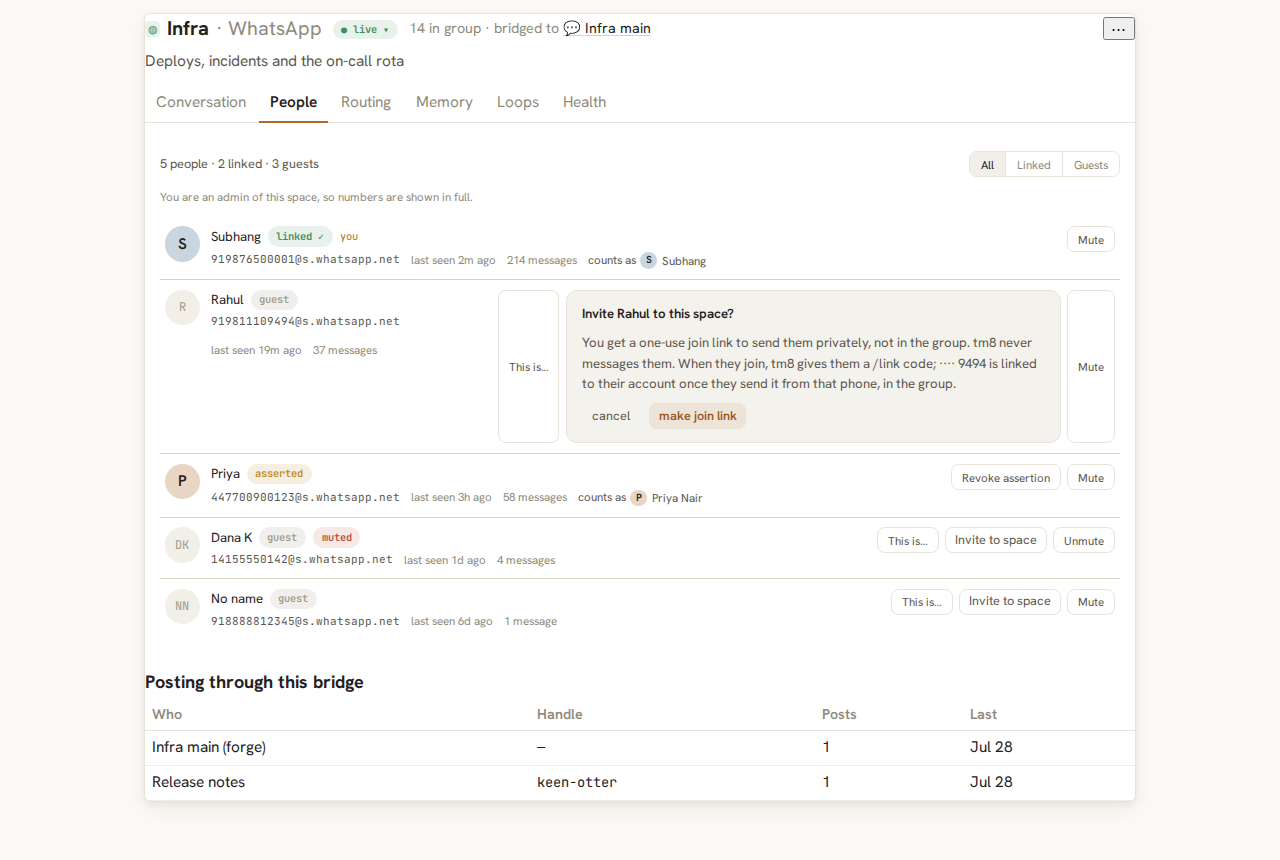
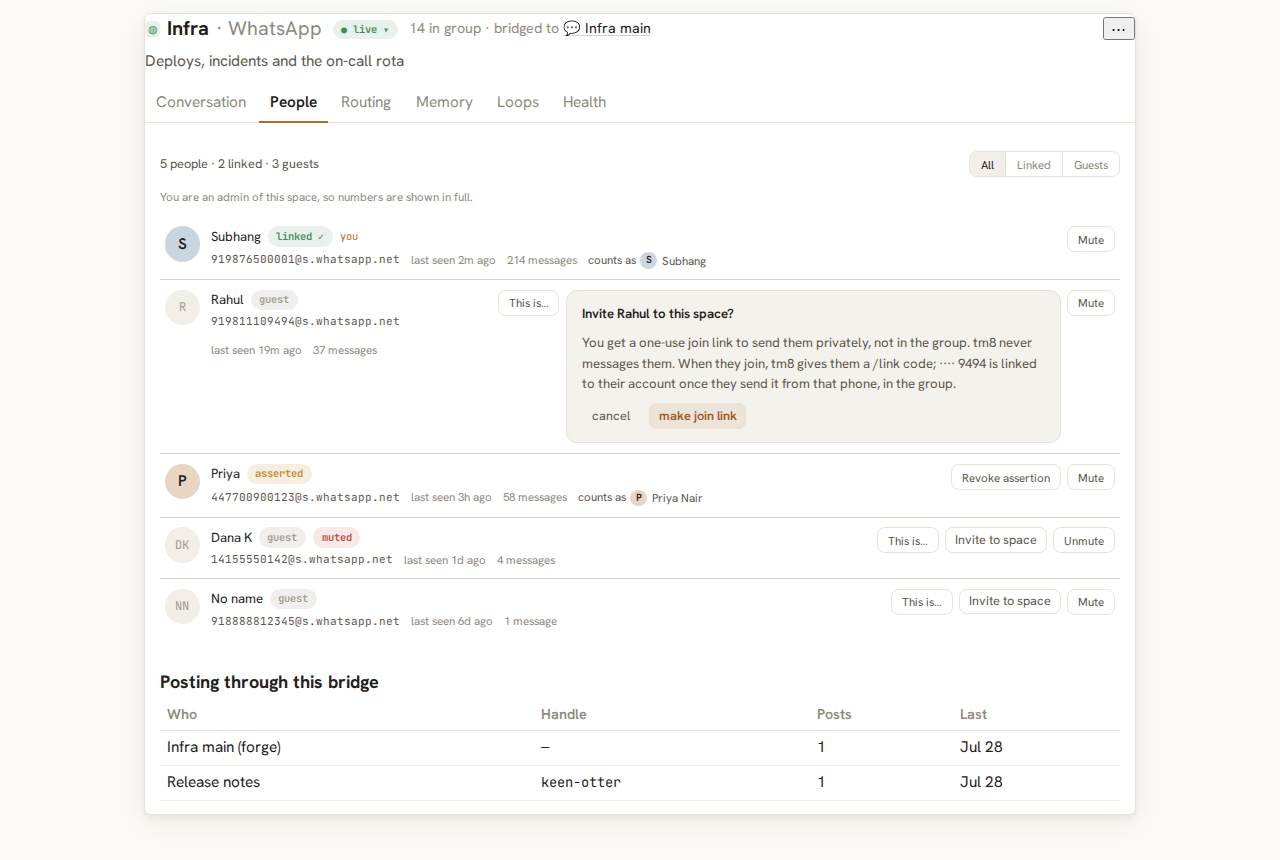
Bridge People tab: two layout nits from #1474's review (task 01a1914b-ed41)
- people.css: .brp__actions aligns to the top, so B3's inline Invite panel no
  longer stretches the row's other buttons to its height.
- PeopleTab + bridge-panel.css: under the roster, the posters block sits on
  the roster's 14px inset instead of flush at the card edge. The counts view
  is unchanged.
- desktop screenshots in gate-evidence/bridge-people-mount re-taken.

diff --git a/packages/tm8-ui/src/bridges/people/people.css b/packages/tm8-ui/src/bridges/people/people.css
@@ -63,7 +63,9 @@
 /* A <button> keeps the UA's black text unless told otherwise: unreadable in dark. */
 .brp__chip { padding: 0; border: 0; background: transparent; font: inherit; color: inherit; cursor: pointer; }
 
-.brp__actions { display: flex; gap: 6px; flex-wrap: wrap; justify-content: flex-end; }
+/* align-items: flex-start: an inline panel opened in this row (B3's Invite)
+   is taller than the buttons; stretch would grow its siblings with it. */
+.brp__actions { display: flex; gap: 6px; flex-wrap: wrap; justify-content: flex-end; align-items: flex-start; }
 .brp__btn {
   padding: 3px 9px;
   border: 1px solid var(--pn-line);

diff --git a/packages/tm8-ui/src/bridges/bridge-panel.css b/packages/tm8-ui/src/bridges/bridge-panel.css
@@ -173,3 +173,7 @@
   width: 100%; box-sizing: border-box; font: inherit; padding: 6px 8px; border: 1px solid var(--pn-line); border-radius: var(--pn-r-sm);
   background: var(--pn-card); color: var(--pn-ink);
 }
+
+/* Under lane P's roster, the posters sit on the roster's own inset (.brp's
+   14px), not flush at the card edge. */
+.brg-people__posters { padding: 0 14px 12px; }

diff --git a/packages/tm8-ui/src/bridges/tabs/PeopleTab.tsx b/packages/tm8-ui/src/bridges/tabs/PeopleTab.tsx
@@ -29,7 +29,7 @@ export function PeopleTab({ view, port, onOpenEntity }: {
             ? (p) => <InviteToSpace spaceId={view.spaceId} bridgeId={view.id} participant={p} createInvite={createInvite} />
             : undefined}
         />
-        <Posters view={view} />
+        <div className="brg-people__posters"><Posters view={view} /></div>
       </div>
     );
   }
